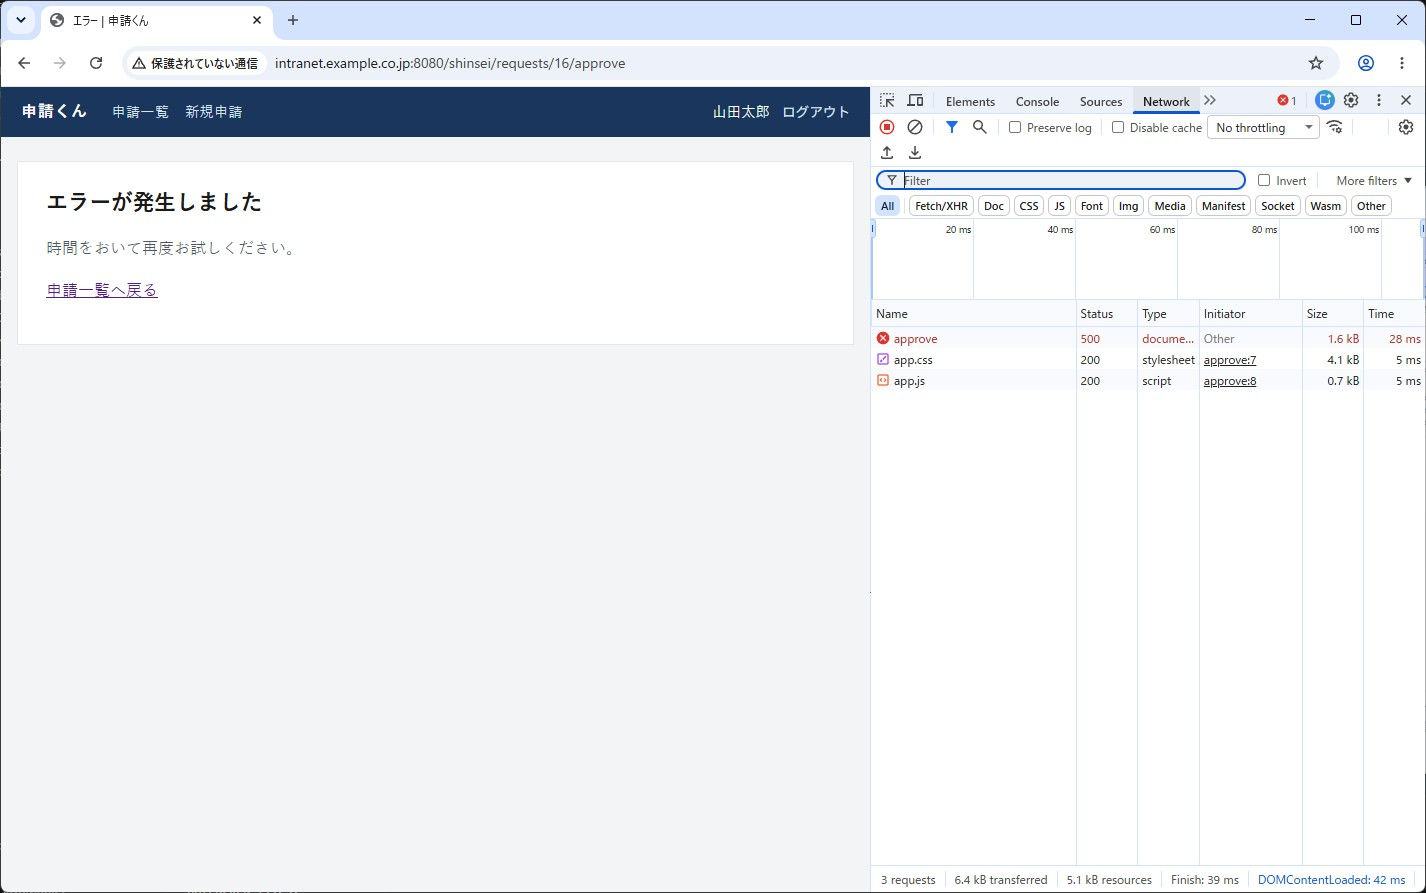
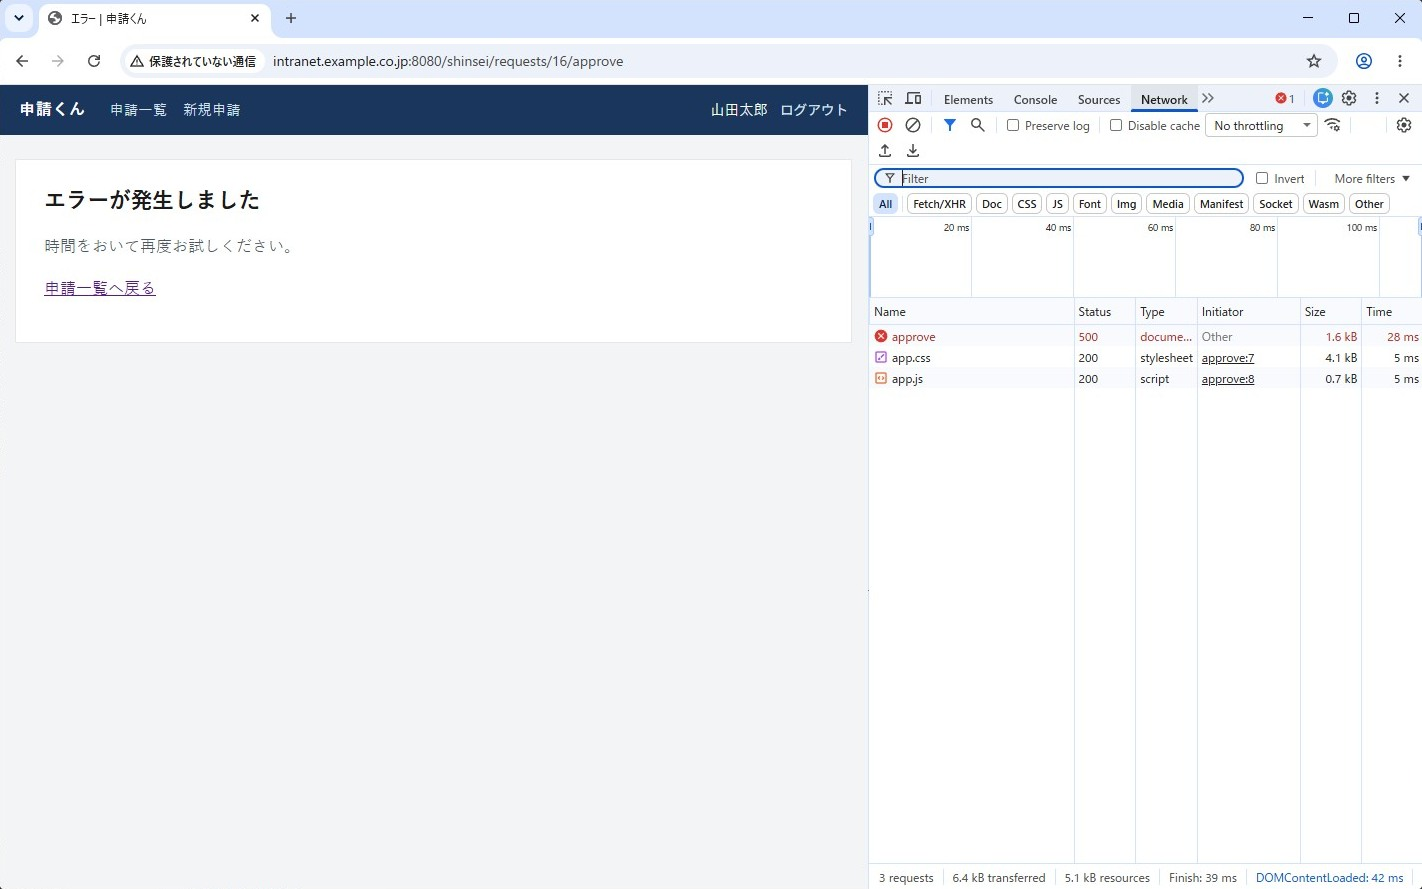
申請くんキャプチャの枠の余白と、目次ページの上余白を修正
- .photo-figure.screen-figure に内側の余白(padding)が無く、画像が
  角丸の枠にぴったり密着してコーナーで欠けて見えていたため padding を追加
- 上の修正で余白が生まれたことで、Network タブ画像(screen-network-*.jpg)の
  外周1pxに、ウィンドウキャプチャ由来と見られる異物色の縁が見えるように
  なったため、対象10枚を上下左右2pxずつトリミングして除去
- トップページの「目次」見出しの上余白が、.home-hero でラップした際に
  .content > .section-head:first-child のセレクタから外れて広がって
  いたため、.home-hero 配下にも同じ余白を適用

diff --git a/src/styles/index.css b/src/styles/index.css
@@ -455,7 +455,8 @@ h2,
   margin: 48px 0 18px;
 }
 
-.content > .section-head:first-child {
+.content > .section-head:first-child,
+.home-hero > .section-head:first-child {
   margin-top: 8px;
 }
 
@@ -1591,15 +1592,18 @@ th {
 }
 
 .photo-figure.screen-figure {
+  padding: 16px;
   background: #dfe4ec;
 }
 
 .photo-figure.screen-figure img {
+  display: block;
   width: auto;
   max-width: 100%;
   height: auto;
   max-height: 520px;
   margin: 0 auto;
+  border-radius: 6px;
   object-fit: contain;
   filter: none;
   background: #dfe4ec;
